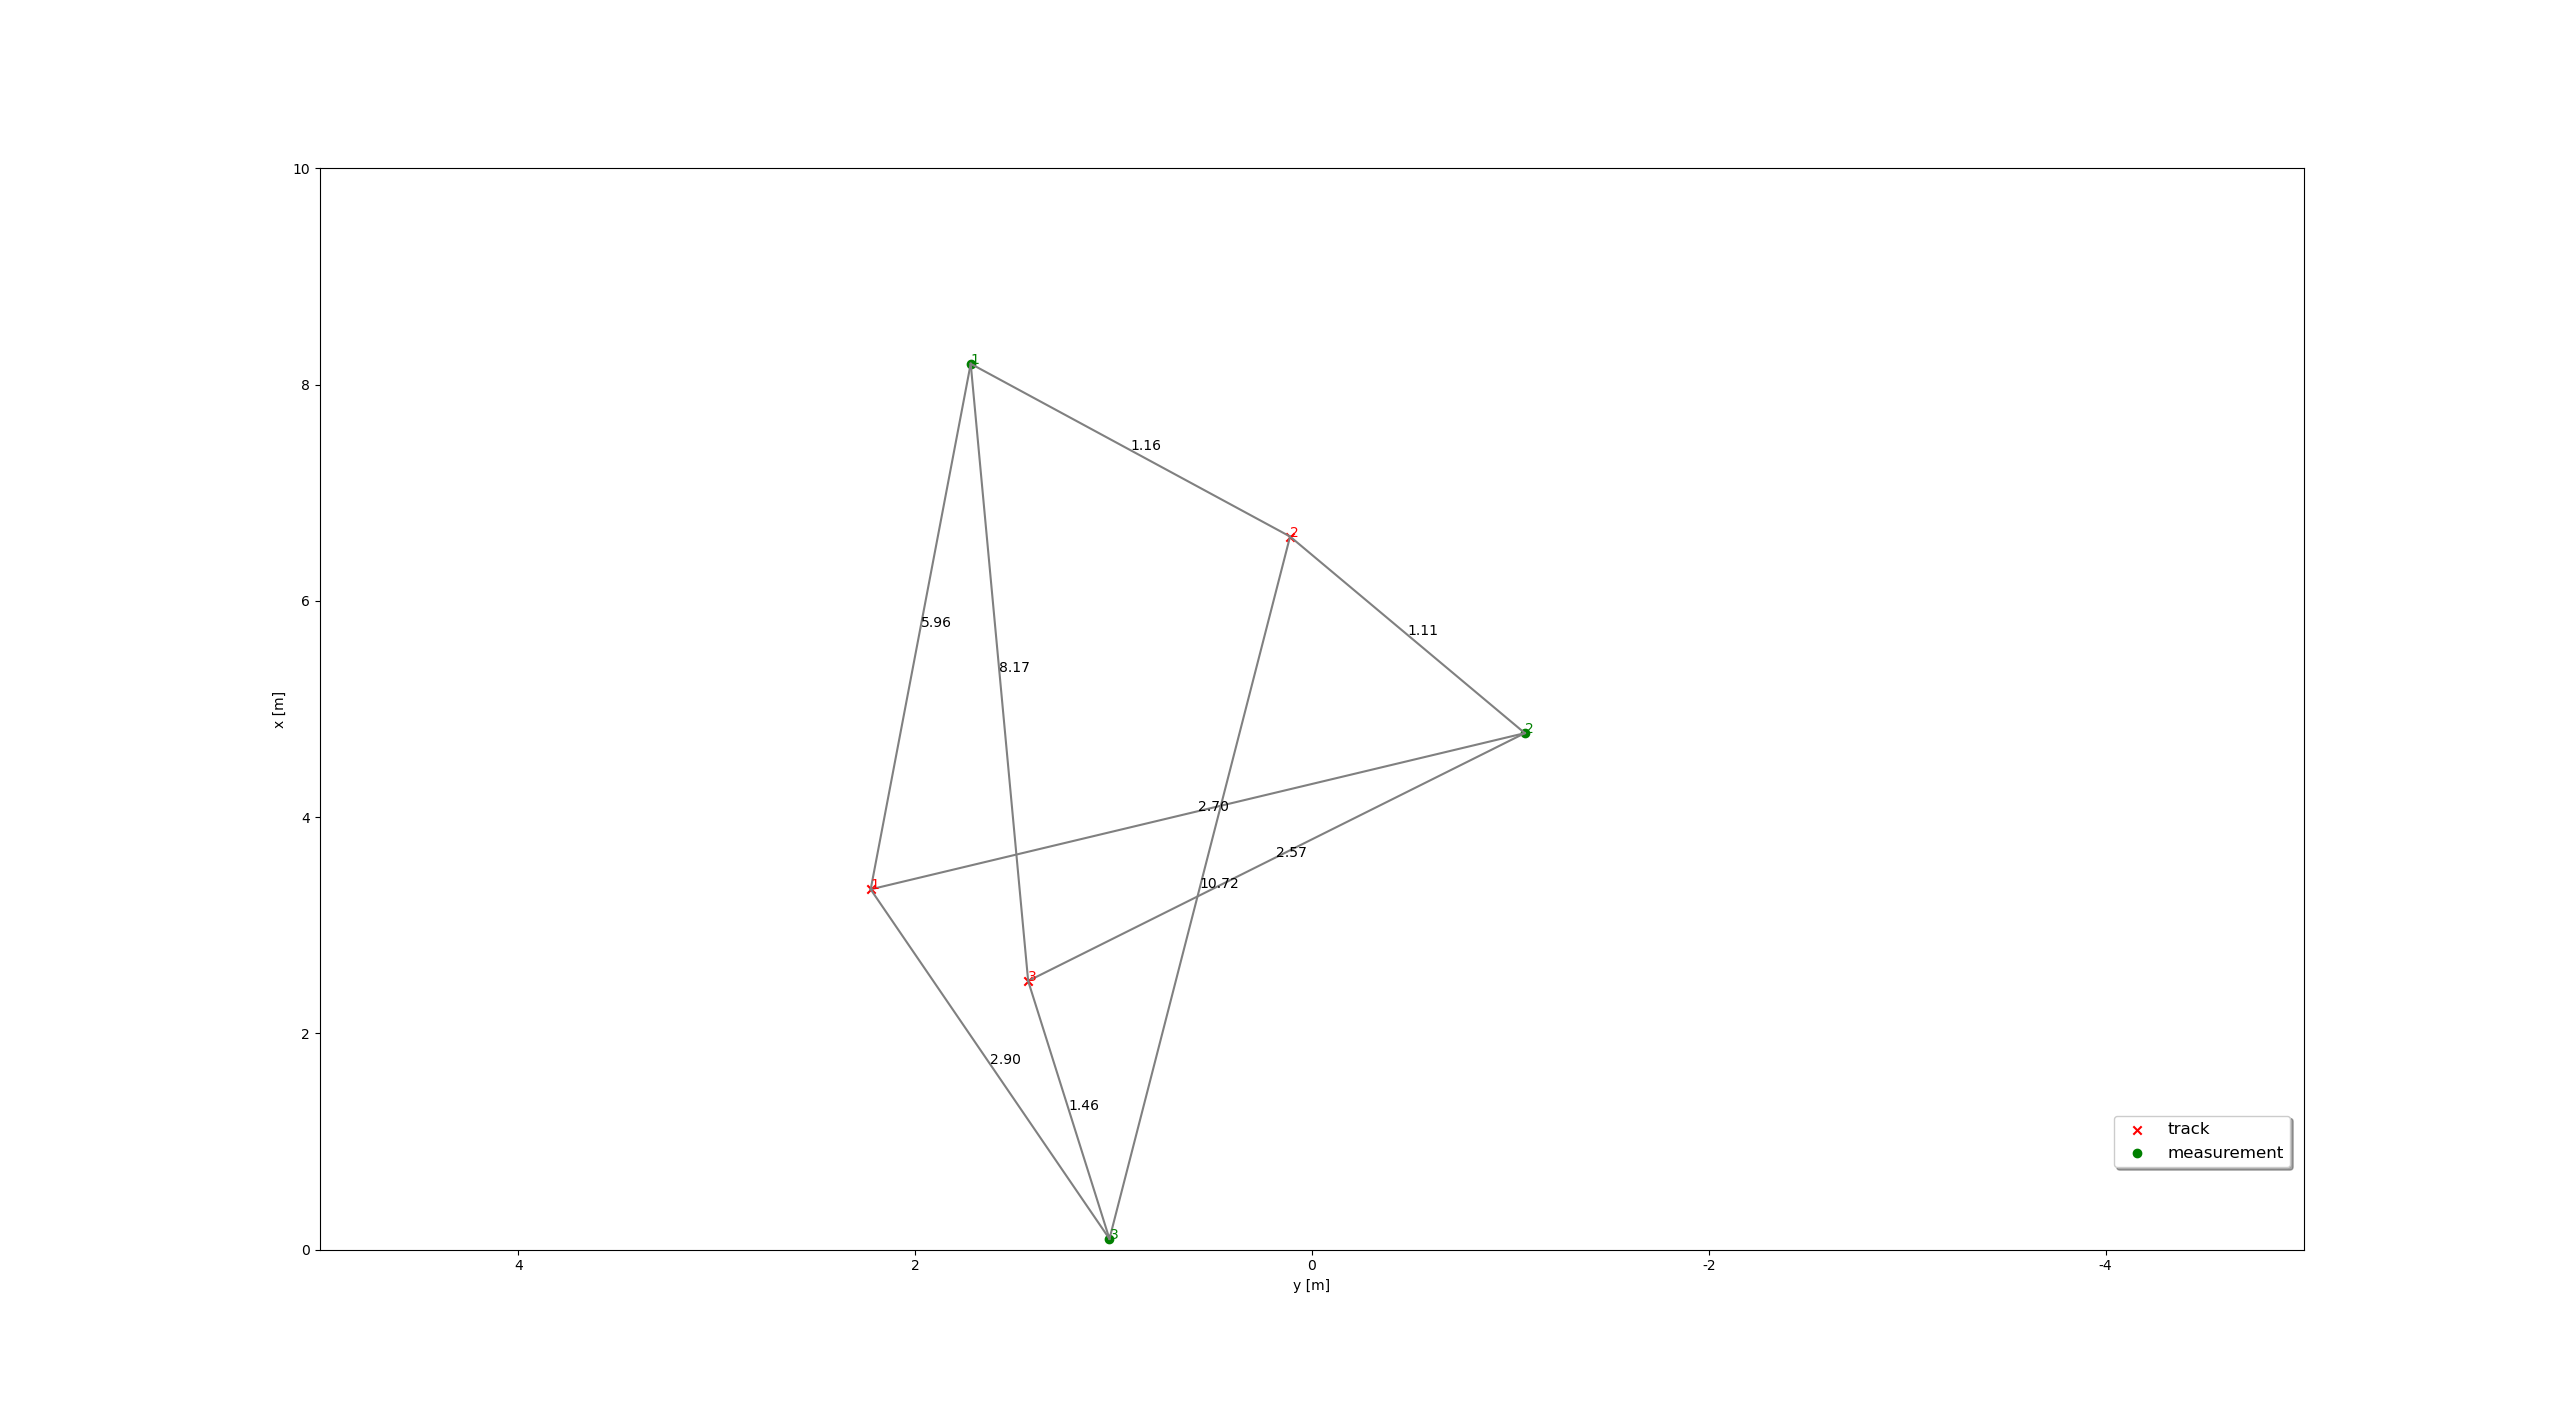
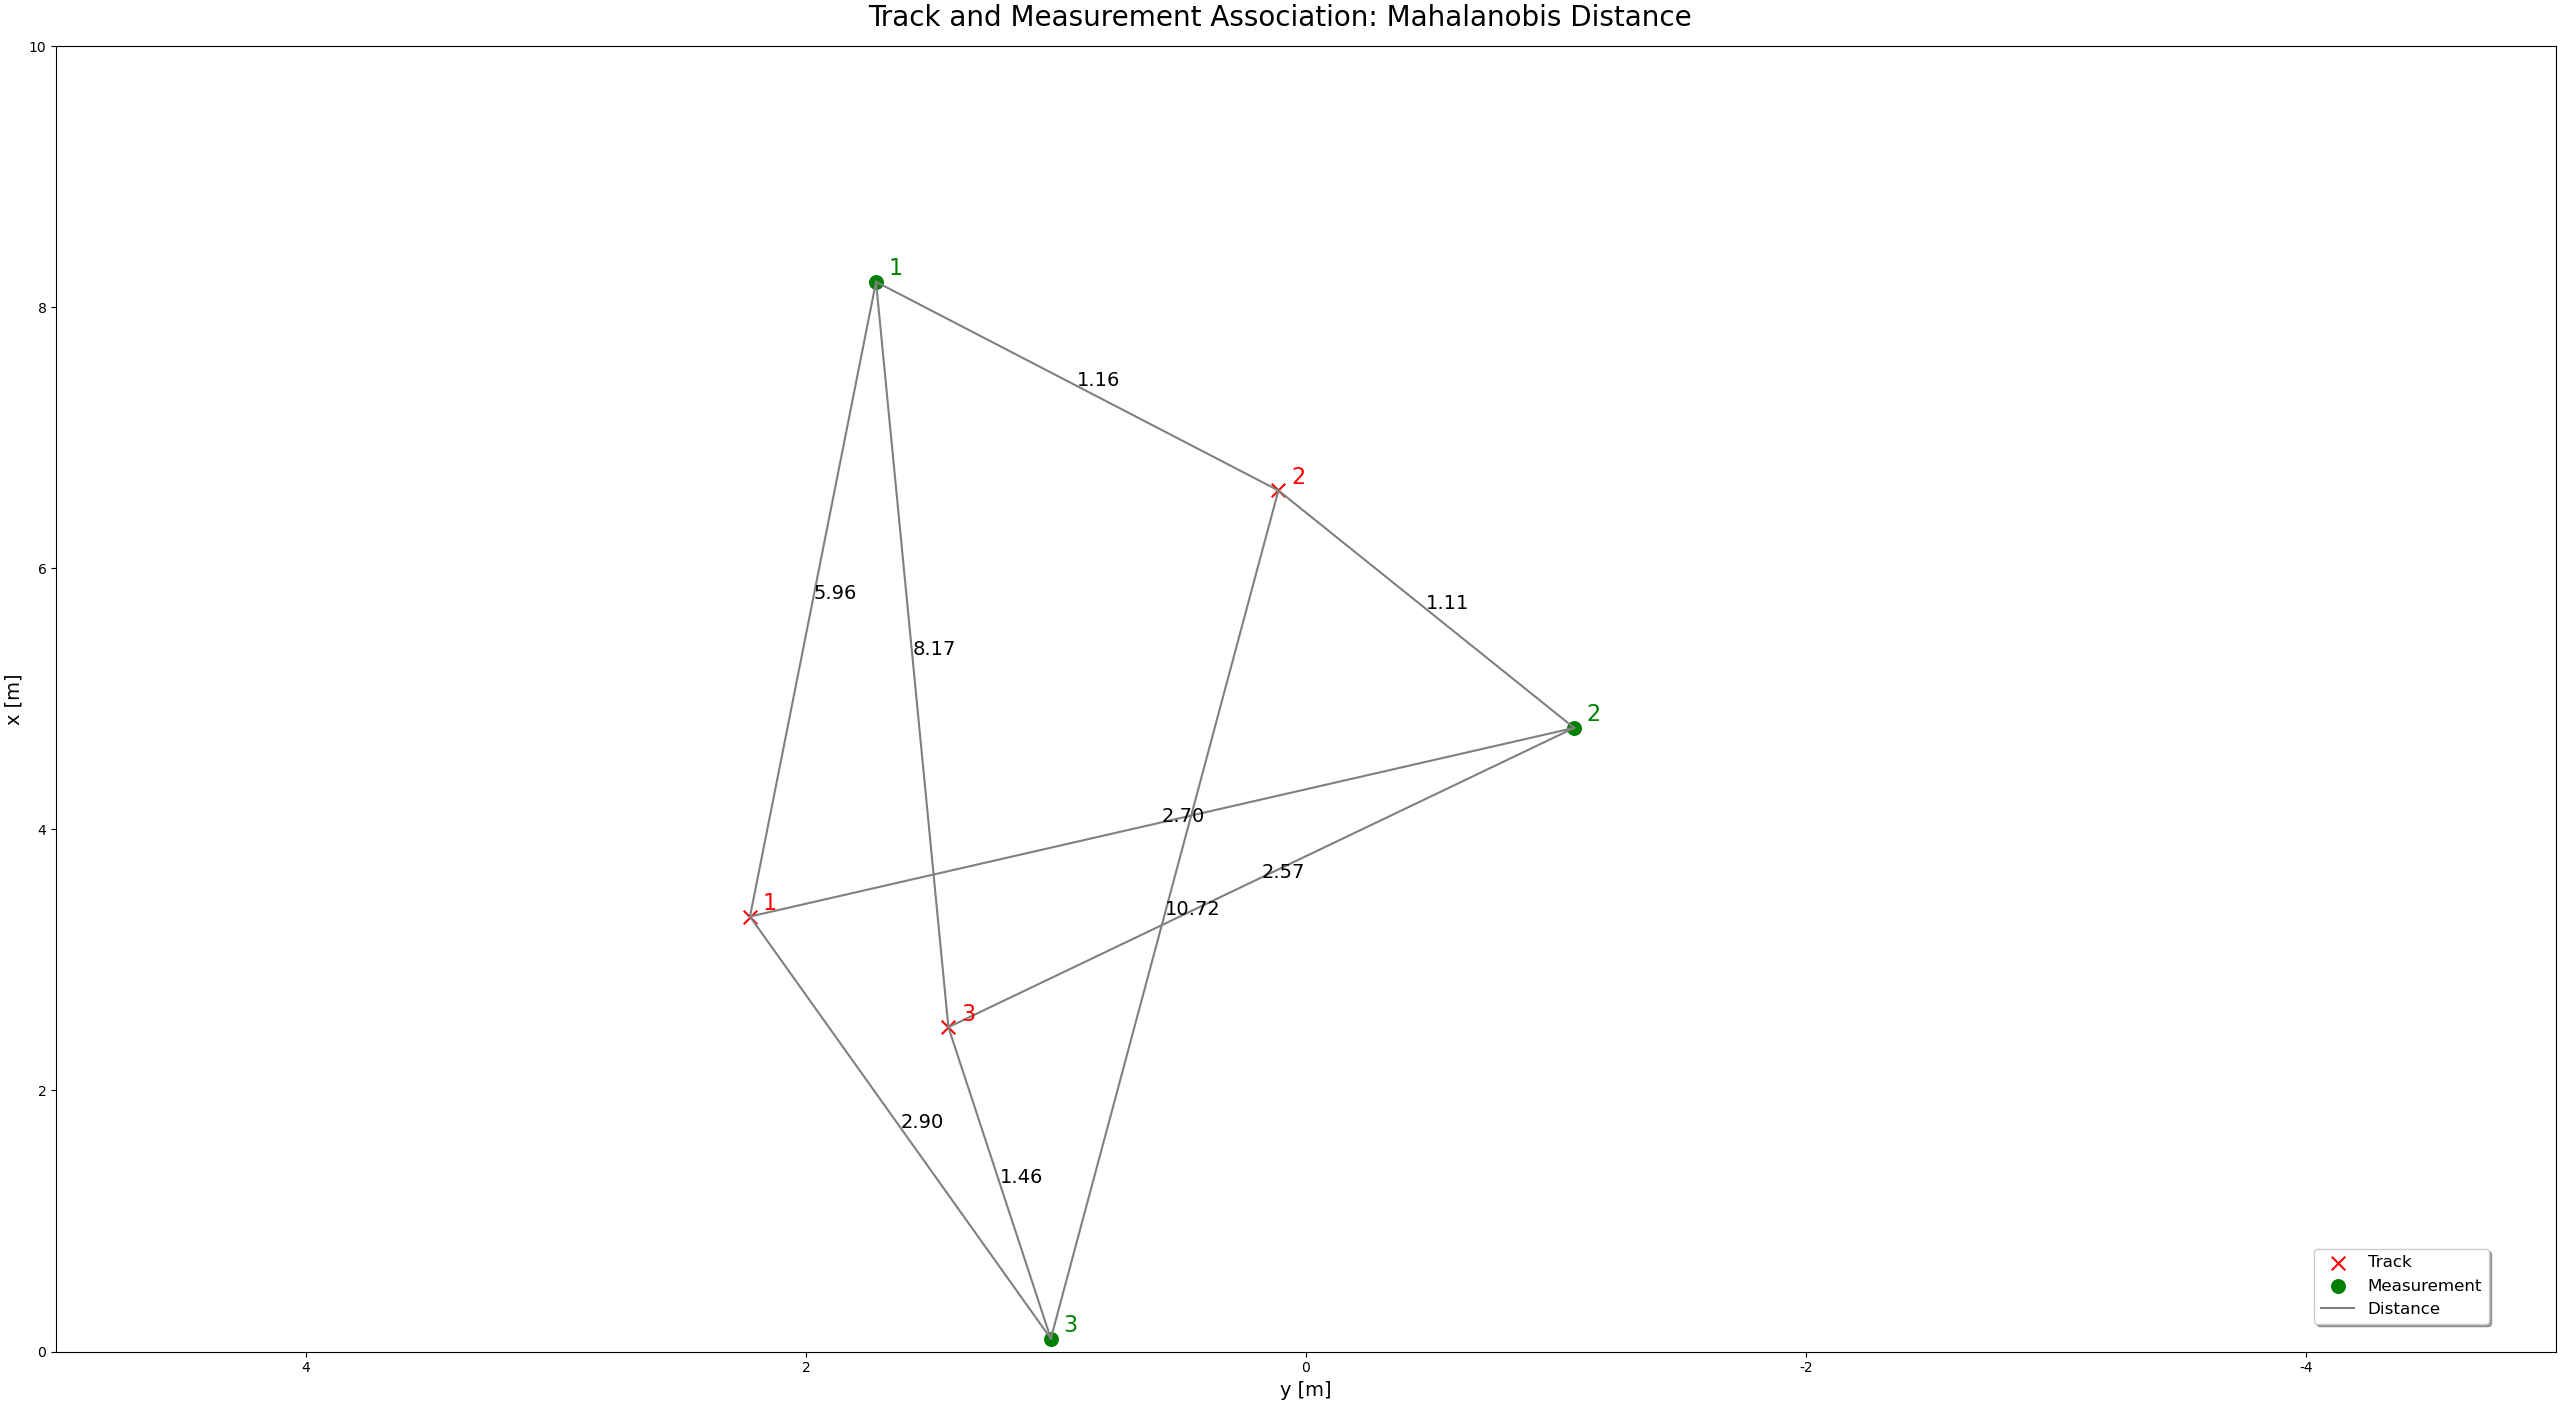
:art: Making Matplotlib results nicer

diff --git a/2-Sensor-Fusion/Exercises/2-4-Multi-Target-Tracking/exercises/3_association_matrix.py b/2-Sensor-Fusion/Exercises/2-4-Multi-Target-Tracking/exercises/3_association_matrix.py
@@ -182,8 +182,12 @@ def run():
     # Initialise the association lists
     track_list = []
     meas_list = []
-    ### Initialise the Matplotlib figure
-    fig, ax = plt.subplots()
+    ### Create the Matplotlib figure instance
+    # Initialise a new subplot
+    fig, ax = plt.subplots(1, 1, figsize=(24, 20), constrained_layout=True)
+    # Set the figure title
+    txt1 = 'Track and Measurement Association: Mahalanobis Distance'
+    fig.suptitle(txt1, fontsize=20)
     ### Simulate measurements and run the data association task
     for i in range(3):
         # Create a new track instance
@@ -192,10 +196,11 @@ def run():
         track_list.append(track)
         # Plot the track
         ax.scatter(float(-track.x[1]), float(track.x[0]),
-                                marker='x', color='red', label='track'
+                        marker='x', s=95, color='red', label='Track'
         )
-        ax.text(float(-track.x[1]), float(track.x[0]), str(track.id),
-                                color='red'
+        # Set the track label
+        ax.text(float(-track.x[1] + 0.05), float(track.x[0] + 0.05),
+                        str(track.id), fontsize=16, color='red'
         )
         # Create a new measurement instance
         meas = Measurement(i + 1, float(track.x[0]), float(track.x[1]))
@@ -203,11 +208,11 @@ def run():
         meas_list.append(meas)
         # Plot the measurement
         ax.scatter(float(-meas.z[1]), float(meas.z[0]),
-                                marker='o', color='green', label='measurement'
+                        marker='o', s=95, color='green', label='Measurement'
         )
-        # Set the axis label
-        ax.text(float(-meas.z[1]), float(meas.z[0]),
-                                str(meas.id), color='green'
+        # Set the measurement label
+        ax.text(float(-meas.z[1] + 0.05), float(meas.z[0] + 0.05),
+                        str(meas.id), fontsize=16, color='green'
         )
     ### Calculate the association matrix
     association.associate(track_list, meas_list)
@@ -221,14 +226,14 @@ def run():
                 # Plot the distance
                 ax.plot([float(-track.x[1]), float(-meas.z[1])],
                         [float(track.x[0]), float(meas.z[0])],
-                        color='gray'
+                        color='gray', label='Distance'
                 )
-                # Set the axis label
+                # Set the distance label
                 str_dist = "{:.2f}".format(dist)
                 ax.text(
                     float((-track.x[1] - meas.z[1]) / 2), 
                     float((track.x[0] + meas.z[0]) / 2), 
-                    str_dist
+                    str_dist, fontsize=14
                 )
     # Maximise the figure window
     if matplotlib.rcParams['backend'] == 'wxagg':
@@ -244,11 +249,11 @@ def run():
     ### Set the figure properties
     # Initialise the legend
     ax.legend(handle_list, label_list, loc='center left',
-                    shadow=True, fontsize='large', bbox_to_anchor=(0.9, 0.1)
+                    shadow=True, fontsize='large', bbox_to_anchor=(0.9, 0.05)
     )
     # Set the axes labels
-    ax.set_xlabel('y [m]')
-    ax.set_ylabel('x [m]')
+    ax.set_xlabel('y [m]', fontsize=14)
+    ax.set_ylabel('x [m]', fontsize=14)
     # Set the axes limits
     ax.set_xlim(-5, 5)
     ax.set_ylim(0, 10)
